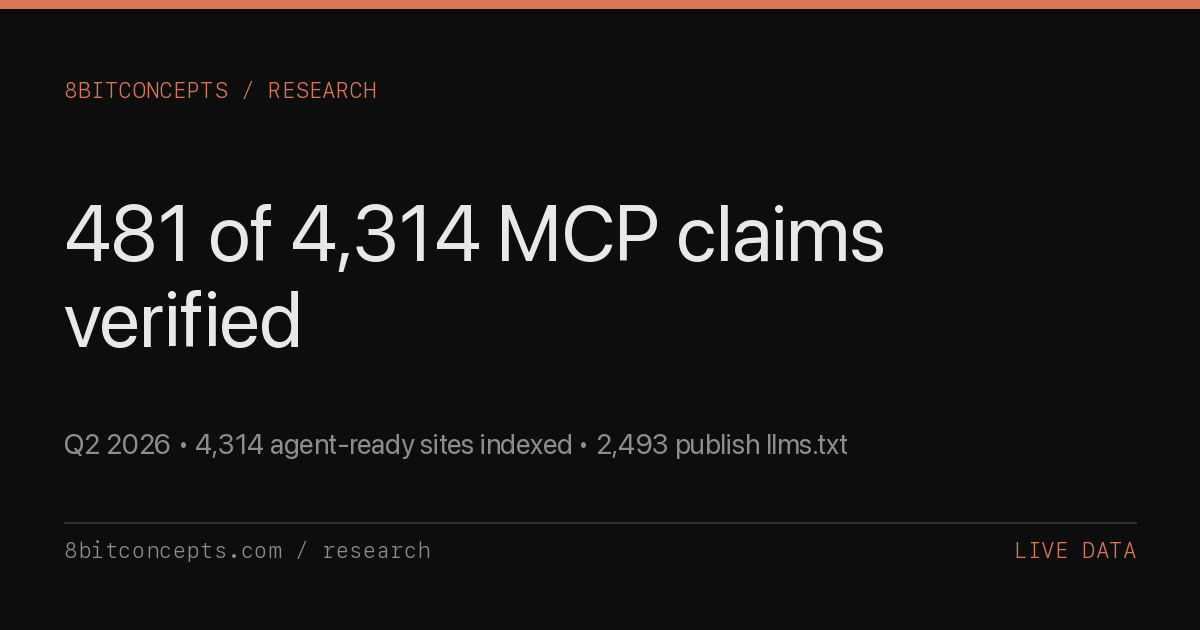
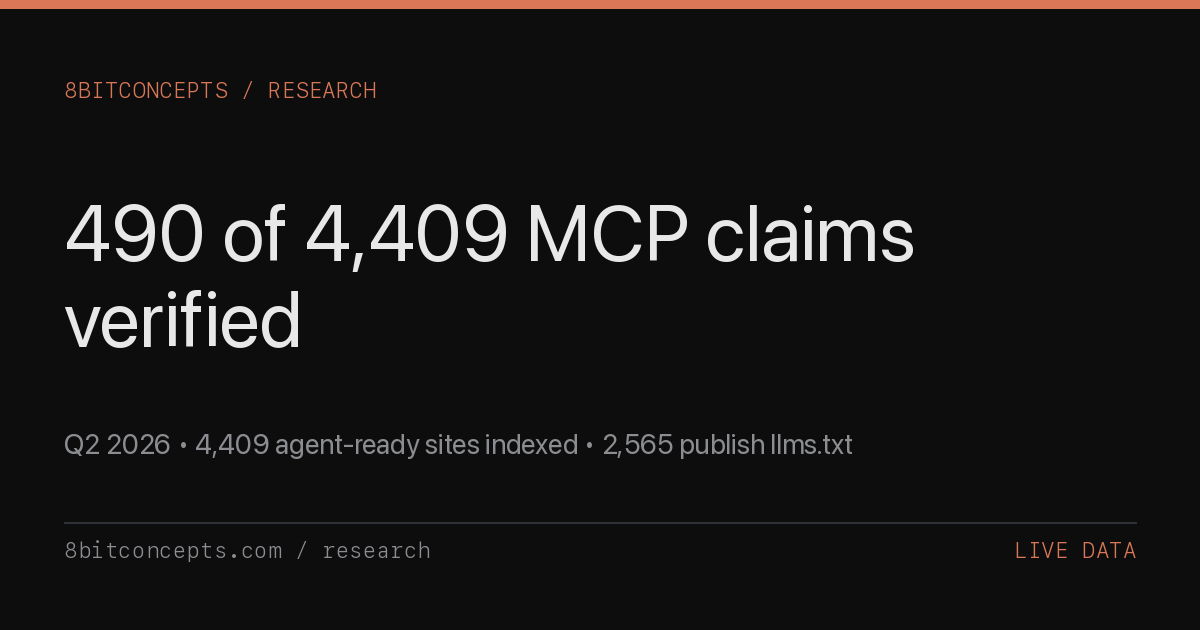
mcp-health: auto-regenerate 2026-07-27

Changed region(s): [[0.0925, 0.3016, 0.7708, 0.4222], [0.185, 0.6635, 0.7092, 0.7238]]

diff --git a/research/q2-2026-mcp-ecosystem-health.html b/research/q2-2026-mcp-ecosystem-health.html
@@ -5,11 +5,11 @@
   <meta name="viewport" content="width=device-width, initial-scale=1.0" />
   <meta name="referrer" content="strict-origin-when-cross-origin" />
   <meta name="color-scheme" content="dark light" />
-  <meta name="last-updated" content="2026-07-20" />
+  <meta name="last-updated" content="2026-07-27" />
   <title>Q2 2026 MCP Ecosystem Health -- 8bitconcepts</title>
-  <meta name="description" content="Live MCP ecosystem health: 4,314 agent-ready sites indexed, 481 (11.1%) MCP-verified via JSON-RPC handshake. 2,493 publish llms.txt, 605 publish OpenAPI. Category breakdown, newly-indexed servers, gaps." />
+  <meta name="description" content="Live MCP ecosystem health: 4,409 agent-ready sites indexed, 490 (11.1%) MCP-verified via JSON-RPC handshake. 2,565 publish llms.txt, 612 publish OpenAPI. Category breakdown, newly-indexed servers, gaps." />
   <meta property="og:title" content="Q2 2026 MCP Ecosystem Health -- 8bitconcepts" />
-  <meta property="og:description" content="481 of 4,314 indexed agent-ready sites (11.1%) pass a live JSON-RPC handshake. Most MCP-positive candidates do not verify as working endpoints. Category breakdown + newly-verified servers from NothingHumanSearch." />
+  <meta property="og:description" content="490 of 4,409 indexed agent-ready sites (11.1%) pass a live JSON-RPC handshake. Most MCP-positive candidates do not verify as working endpoints. Category breakdown + newly-verified servers from NothingHumanSearch." />
   <meta property="og:type" content="article" />
   <meta property="og:url" content="https://8bitconcepts.com/research/q2-2026-mcp-ecosystem-health.html" />
   <meta property="og:image" content="https://8bitconcepts.com/research/og/q2-2026-mcp-ecosystem-health.png" />
@@ -17,7 +17,7 @@
   <meta property="og:image:height" content="630" />
   <meta name="twitter:card" content="summary_large_image" />
   <meta name="twitter:title" content="Q2 2026 MCP Ecosystem Health" />
-  <meta name="twitter:description" content="MCP reality check: 481/4,314 sites survive a real JSON-RPC handshake. Live data from nothumansearch.ai, 2026-07-20." />
+  <meta name="twitter:description" content="MCP reality check: 490/4,409 sites survive a real JSON-RPC handshake. Live data from nothumansearch.ai, 2026-07-27." />
   <meta name="twitter:image" content="https://8bitconcepts.com/research/og/q2-2026-mcp-ecosystem-health.png" />
   <link rel="canonical" href="https://8bitconcepts.com/research/q2-2026-mcp-ecosystem-health.html" />
   <link rel="preconnect" href="https://fonts.googleapis.com" />
@@ -434,10 +434,10 @@
     "@context": "https://schema.org",
     "@type": "Article",
     "headline": "Q2 2026 MCP Ecosystem Health",
-    "description": "Live MCP ecosystem audit from NothingHumanSearch: 4,314 agent-ready sites indexed, only 481 (11.1%) MCP-verified via live JSON-RPC handshake. Category breakdown, top MCP servers, newly-indexed this week, and gaps in regulated verticals.",
+    "description": "Live MCP ecosystem audit from NothingHumanSearch: 4,409 agent-ready sites indexed, only 490 (11.1%) MCP-verified via live JSON-RPC handshake. Category breakdown, top MCP servers, newly-indexed this week, and gaps in regulated verticals.",
     "url": "https://8bitconcepts.com/research/q2-2026-mcp-ecosystem-health.html",
     "datePublished": "2026-04-17",
-    "dateModified": "2026-07-20",
+    "dateModified": "2026-07-27",
     "author": {"@type": "Organization", "name": "8bitconcepts", "url": "https://8bitconcepts.com"},
     "publisher": {"@type": "Organization", "name": "8bitconcepts", "url": "https://8bitconcepts.com"},
     "image": "https://8bitconcepts.com/research/og/q2-2026-mcp-ecosystem-health.png",
@@ -477,10 +477,10 @@
 
     <h1>Q2 2026 MCP Ecosystem Health</h1>
 
-    <p class="subtitle">As of 2026-07-20, 4,314 agent-ready sites are indexed on NothingHumanSearch, but only 481 (11.1%) survive a real JSON-RPC handshake to their /mcp endpoint. The rest did not verify as working MCP endpoints in this crawl. Live data pulled from <a href="https://nothumansearch.ai/digest.json">nothumansearch.ai/digest.json</a>.</p>
+    <p class="subtitle">As of 2026-07-27, 4,409 agent-ready sites are indexed on NothingHumanSearch, but only 490 (11.1%) survive a real JSON-RPC handshake to their /mcp endpoint. The rest did not verify as working MCP endpoints in this crawl. Live data pulled from <a href="https://nothumansearch.ai/digest.json">nothumansearch.ai/digest.json</a>.</p>
 
     <div class="meta">
-      <span class="meta-date">2026-07-20</span>
+      <span class="meta-date">2026-07-27</span>
       <span class="meta-tag">Live Data</span>
       <span class="meta-read">~850 words</span>
     </div>
@@ -489,20 +489,20 @@
 
       <h2>Executive summary</h2>
 
-      <p>NothingHumanSearch has been crawling the web for agent-readiness signals since launch, and the numbers tell a consistent story about the gap between claiming MCP support and shipping it. As of 2026-07-20 the index holds 4,314 sites with at least one agent-discovery signal (llms.txt, ai-plugin.json, OpenAPI, or an MCP manifest). Of those, 481 &mdash; 11.1% &mdash; pass a live JSON-RPC probe against their declared /mcp endpoint. The remaining 3,833 sites (88.9%) did not verify as working MCP endpoints in this crawl. That is not evidence of intent. It means the crawler found an MCP-positive or agent-discovery signal, then the live probe could not complete the <code>initialize</code> round-trip.</p>
+      <p>NothingHumanSearch has been crawling the web for agent-readiness signals since launch, and the numbers tell a consistent story about the gap between claiming MCP support and shipping it. As of 2026-07-27 the index holds 4,409 sites with at least one agent-discovery signal (llms.txt, ai-plugin.json, OpenAPI, or an MCP manifest). Of those, 490 &mdash; 11.1% &mdash; pass a live JSON-RPC probe against their declared /mcp endpoint. The remaining 3,919 sites (88.9%) did not verify as working MCP endpoints in this crawl. That is not evidence of intent. It means the crawler found an MCP-positive or agent-discovery signal, then the live probe could not complete the <code>initialize</code> round-trip.</p>
 
       <div class="stat-row">
         <div class="stat-box">
-          <div class="stat-num">4,314</div>
-          <div class="stat-label">agent-ready sites indexed on NothingHumanSearch (2026-07-20)</div>
+          <div class="stat-num">4,409</div>
+          <div class="stat-label">agent-ready sites indexed on NothingHumanSearch (2026-07-27)</div>
         </div>
         <div class="stat-box">
-          <div class="stat-num">481</div>
+          <div class="stat-num">490</div>
           <div class="stat-label">pass a live JSON-RPC MCP handshake &mdash; 11.1% of the index</div>
         </div>
         <div class="stat-box">
-          <div class="stat-num">2,493</div>
-          <div class="stat-label">publish <code>llms.txt</code> &mdash; 57.8% of the index</div>
+          <div class="stat-num">2,565</div>
+          <div class="stat-label">publish <code>llms.txt</code> &mdash; 58.2% of the index</div>
         </div>
       </div>
 
@@ -510,7 +510,7 @@
 
       <p>Static scanners &mdash; the ones that produce most of the MCP directory listings you see today &mdash; treat a string match for <code>mcp</code> in <code>llms.txt</code> or a link to <code>/.well-known/mcp.json</code> as a positive signal. That's how you end up with directories claiming 10,000+ MCP servers when the actual live count is smaller by an order of magnitude. A real check has to open a connection, send <code>{"method": "initialize"}</code>, wait for a protocol handshake, and confirm the server responds with a valid <code>result</code> block citing a <code>protocolVersion</code>. Anything short of that is a citation, not an implementation.</p>
 
-      <p>NHS's <code>verify_mcp</code> tool (published as part of the NHS MCP server at <a href="https://nothumansearch.ai/mcp">nothumansearch.ai/mcp</a>) does exactly this live-probe for any URL you hand it. When we recrawled the full index in April 2026 with the probe turned on, the verified-MCP count stayed stable around 481 even as the total indexed population kept climbing. The gap between MCP-positive discovery surfaces and endpoints that complete a live handshake is widening, not narrowing &mdash; which is the opposite of what the marketing cycle would have you believe.</p>
+      <p>NHS's <code>verify_mcp</code> tool (published as part of the NHS MCP server at <a href="https://nothumansearch.ai/mcp">nothumansearch.ai/mcp</a>) does exactly this live-probe for any URL you hand it. When we recrawled the full index in April 2026 with the probe turned on, the verified-MCP count stayed stable around 490 even as the total indexed population kept climbing. The gap between MCP-positive discovery surfaces and endpoints that complete a live handshake is widening, not narrowing &mdash; which is the opposite of what the marketing cycle would have you believe.</p>
 
       <p>This matters for anyone building an agent. If you rely on a static MCP directory to decide which tools your agent should discover at runtime, you will waste connections and context tokens on dead endpoints. The 90%+ unverified cohort is not proof of bad faith &mdash; it can include stale docs, misconfigured reverse proxies, auth walls, wrong endpoint paths, scanner false positives, and manifests that reference endpoints the author has not wired up. But for an autonomous agent, the failure mode is the same: a call that eats latency, fails, and doesn't advance the task.</p>
 
@@ -528,7 +528,6 @@
           </tr>
         </thead>
         <tbody>
-          <tr><td><a href="https://nothumansearch.ai/site/clicksprotocol.xyz">clicksprotocol.xyz</a></td><td>Clicks Protocol</td><td class="num">100</td><td>llms.txt, ai-plugin.json, OpenAPI, structured API, MCP handshake, AI-friendly robots.txt, Schema.org</td></tr>
           <tr><td><a href="https://nothumansearch.ai/site/rendoc.dev">rendoc.dev</a></td><td>rendoc</td><td class="num">100</td><td>llms.txt, ai-plugin.json, OpenAPI, structured API, MCP handshake, AI-friendly robots.txt, Schema.org</td></tr>
           <tr><td><a href="https://nothumansearch.ai/site/sourcelibrary.org">sourcelibrary.org</a></td><td>Source Library</td><td class="num">100</td><td>llms.txt, ai-plugin.json, OpenAPI, structured API, MCP handshake, AI-friendly robots.txt, Schema.org</td></tr>
           <tr><td><a href="https://nothumansearch.ai/site/simplepdf.com">simplepdf.com</a></td><td>Free PDF Editor Online - No Sign Up, No Watermarks</td><td class="num">100</td><td>llms.txt, ai-plugin.json, OpenAPI, structured API, MCP handshake, AI-friendly robots.txt, Schema.org</td></tr>
@@ -536,6 +535,7 @@
           <tr><td><a href="https://nothumansearch.ai/site/api.contrastcyber.com">api.contrastcyber.com</a></td><td>ContrastAPI</td><td class="num">100</td><td>llms.txt, ai-plugin.json, OpenAPI, structured API, MCP handshake, AI-friendly robots.txt, Schema.org</td></tr>
           <tr><td><a href="https://nothumansearch.ai/site/prereason.com">prereason.com</a></td><td>PreReason - Market Context API</td><td class="num">100</td><td>llms.txt, ai-plugin.json, OpenAPI, structured API, MCP handshake, AI-friendly robots.txt, Schema.org</td></tr>
           <tr><td><a href="https://nothumansearch.ai/site/workprotocol.ai">workprotocol.ai</a></td><td>WorkProtocol</td><td class="num">100</td><td>llms.txt, ai-plugin.json, OpenAPI, structured API, MCP handshake, AI-friendly robots.txt, Schema.org</td></tr>
+          <tr><td><a href="https://nothumansearch.ai/site/mycloudclaw.com">mycloudclaw.com</a></td><td>CloudClaw</td><td class="num">100</td><td>llms.txt, ai-plugin.json, OpenAPI, structured API, MCP handshake, AI-friendly robots.txt, Schema.org</td></tr>
         </tbody>
       </table>
 
@@ -559,7 +559,7 @@
 
       <h2>Top categories by indexed count</h2>
 
-      <p>Across verified MCP servers and the broader agent-ready population, the category distribution is heavily concentrated. <strong>Developer tools</strong> alone accounts for 1,320 sites (30.6% of the index). AI-native tools follow closely &mdash; unsurprising given that MCP emerged from the AI-tools ecosystem. After that, category density drops off a cliff.</p>
+      <p>Across verified MCP servers and the broader agent-ready population, the category distribution is heavily concentrated. <strong>Developer tools</strong> alone accounts for 1,330 sites (30.2% of the index). AI-native tools follow closely &mdash; unsurprising given that MCP emerged from the AI-tools ecosystem. After that, category density drops off a cliff.</p>
 
       <table class="data-table">
         <thead>
@@ -570,16 +570,16 @@
           </tr>
         </thead>
         <tbody>
-          <tr><td>Developer tools</td><td class="num">1,320</td><td class="num">30.6%</td></tr>
-          <tr><td>AI-native tools</td><td class="num">924</td><td class="num">21.4%</td></tr>
-          <tr><td>Data / analytics</td><td class="num">389</td><td class="num">9.0%</td></tr>
-          <tr><td>Finance / fintech</td><td class="num">199</td><td class="num">4.6%</td></tr>
-          <tr><td>Productivity</td><td class="num">161</td><td class="num">3.7%</td></tr>
-          <tr><td>E-commerce</td><td class="num">156</td><td class="num">3.6%</td></tr>
-          <tr><td>Communication</td><td class="num">122</td><td class="num">2.8%</td></tr>
-          <tr><td>Security</td><td class="num">112</td><td class="num">2.6%</td></tr>
-          <tr><td>Health / medical</td><td class="num">60</td><td class="num">1.4%</td></tr>
-          <tr><td>Jobs / hiring</td><td class="num">26</td><td class="num">0.6%</td></tr>
+          <tr><td>Developer tools</td><td class="num">1,330</td><td class="num">30.2%</td></tr>
+          <tr><td>AI-native tools</td><td class="num">938</td><td class="num">21.3%</td></tr>
+          <tr><td>Data / analytics</td><td class="num">393</td><td class="num">8.9%</td></tr>
+          <tr><td>Finance / fintech</td><td class="num">199</td><td class="num">4.5%</td></tr>
+          <tr><td>Productivity</td><td class="num">163</td><td class="num">3.7%</td></tr>
+          <tr><td>E-commerce</td><td class="num">160</td><td class="num">3.6%</td></tr>
+          <tr><td>Communication</td><td class="num">124</td><td class="num">2.8%</td></tr>
+          <tr><td>Security</td><td class="num">119</td><td class="num">2.7%</td></tr>
+          <tr><td>Health / medical</td><td class="num">54</td><td class="num">1.2%</td></tr>
+          <tr><td>Jobs / hiring</td><td class="num">29</td><td class="num">0.7%</td></tr>
         </tbody>
       </table>
 
@@ -597,13 +597,15 @@
           </tr>
         </thead>
         <tbody>
-          <tr><td><a href="https://nothumansearch.ai/site/twexapi.io">twexapi.io</a></td><td>TwexAPI - Affordable Twitter (X) API Replacement</td><td>Security</td><td class="num">100</td></tr>
+          <tr><td><a href="https://nothumansearch.ai/site/ai-akari.ai">ai-akari.ai</a></td><td>AIﾉアカリ☆</td><td>AI-native tools</td><td class="num">100</td></tr>
+          <tr><td><a href="https://nothumansearch.ai/site/bbwbelles.com">bbwbelles.com</a></td><td>Plus Size Formal Dresses 22–40</td><td>Uncategorized</td><td class="num">100</td></tr>
+          <tr><td><a href="https://nothumansearch.ai/site/bargo.ai">bargo.ai</a></td><td>Bargo</td><td>Developer tools</td><td class="num">55</td></tr>
         </tbody>
       </table>
 
       <h2>Gaps in the ecosystem</h2>
 
-      <p>The gap that matters for builders: regulated high-value verticals are still thinly represented. Finance has 199 sites, health has 60, and education has 20. These are the same verticals where agents would deliver the most leverage per call &mdash; underwriting assistance, clinical documentation, degree-audit lookups &mdash; and they are the verticals where the MCP ecosystem is the least mature. Jobs (26) and news (8) round out the long tail. If you are deciding where to ship an MCP server and you want reach-per-server rather than defensibility through a crowd, the signal is clear: any vertical below 112 indexed sites is green field.</p>
+      <p>The gap that matters for builders: regulated high-value verticals are still thinly represented. Finance has 199 sites, health has 54, and education has 21. These are the same verticals where agents would deliver the most leverage per call &mdash; underwriting assistance, clinical documentation, degree-audit lookups &mdash; and they are the verticals where the MCP ecosystem is the least mature. Jobs (29) and news (9) round out the long tail. If you are deciding where to ship an MCP server and you want reach-per-server rather than defensibility through a crowd, the signal is clear: any vertical below 119 indexed sites is green field.</p>
 
       <div class="callout">
         <p>The pattern is consistent across every index we maintain: the teams that ship real MCP endpoints are a small fraction of the teams that claim MCP support. For builders, that gap is an opportunity &mdash; the verticals that are thin today will not stay thin for long.</p>
@@ -613,7 +615,7 @@
 
       <p>NHS crawls submitted URLs and auto-discovered candidates from public sources (awesome-mcp-servers, PulseMCP, llmstxt.site, and a handful of curated feeds), then scores each site against seven weighted signals: <code>llms.txt</code> present and parseable; <code>ai-plugin.json</code> at <code>/.well-known/</code>; an OpenAPI or AsyncAPI spec at a discoverable path; an MCP manifest; a live JSON-RPC MCP handshake; documented rate-limit and auth headers; and an accessible structured API response. Sites are re-crawled weekly. Scores range 0-100; any score above 75 corresponds to a site that an autonomous agent can realistically integrate without human help. The full probe methodology is open-source at <a href="https://nothumansearch.ai/methodology">nothumansearch.ai/methodology</a>.</p>
 
-      <p>Weekly submission volume is running at 20 candidates for the week starting 2026-07-13, most from autonomous discovery agents rather than human submissions.</p>
+      <p>Weekly submission volume is running at 37 candidates for the week starting 2026-07-20, most from autonomous discovery agents rather than human submissions.</p>
 
       <p><strong>Download raw data:</strong> The MCP ecosystem health dataset is mirrored as a public gist &mdash; <a href="https://gist.githubusercontent.com/unitedideas/c93bd6d9984729070c59b2ea6c6b301b/raw/mcp-ecosystem-health.csv">CSV</a> &middot; <a href="https://gist.githubusercontent.com/unitedideas/c93bd6d9984729070c59b2ea6c6b301b/raw/mcp-ecosystem-health.md">Markdown</a> &middot; <a href="https://gist.github.com/unitedideas/c93bd6d9984729070c59b2ea6c6b301b">view on GitHub</a>. Auto-updated every weekly regeneration, canonical raw URLs are stable across revisions.</p>
 
@@ -667,7 +669,7 @@
     <div class="footnotes">
       <h4>Sources</h4>
       <ol>
-        <li>NothingHumanSearch &mdash; <a href="https://nothumansearch.ai/digest.json">/digest.json</a>, pulled 2026-07-20T15:15:00Z. Public unauthenticated endpoint. Backing index: 4,314 agent-ready sites / 481 MCP-verified via JSON-RPC handshake.</li>
+        <li>NothingHumanSearch &mdash; <a href="https://nothumansearch.ai/digest.json">/digest.json</a>, pulled 2026-07-27T15:15:01Z. Public unauthenticated endpoint. Backing index: 4,409 agent-ready sites / 490 MCP-verified via JSON-RPC handshake.</li>
         <li>NothingHumanSearch &mdash; <a href="https://nothumansearch.ai/mcp">/mcp</a>, live MCP server exposing <code>verify_mcp</code>, <code>search</code>, <code>get_site</code>, <code>list_categories</code>, <code>get_top_sites</code>, and four more tools over JSON-RPC 2.0.</li>
         <li>NothingHumanSearch &mdash; <a href="https://nothumansearch.ai/methodology">/methodology</a>, open-source scoring rubric with 7 weighted signals.</li>
         <li>Verification means a TCP connection + HTTP POST to the declared <code>/mcp</code> endpoint with a JSON-RPC 2.0 <code>initialize</code> request, followed by a valid <code>result</code> response containing a <code>protocolVersion</code>. Sites that host a manifest but fail the handshake are counted in the index total but not in the MCP-verified total.</li>

diff --git a/marketing/mcp-milestone-posts.md b/marketing/mcp-milestone-posts.md
@@ -1,23 +1,23 @@
 # MCP Verification Milestone Posts
 
-Generated from live NothingHumanSearch digest on 2026-04-28.
+Generated from live NothingHumanSearch digest on 2026-07-27.
 
-Current verified share: 417 / 7,118 (5.9%).
+Current verified share: 490 / 4,409 (11.1%).
 Next milestone: 20%.
 
 Use these when the live digest crosses 20%, 50%, 75%, and 100% verified MCP handshakes. Do not post until the status line says READY.
 
 ### 20% milestone
 
-Status: waiting: 1,007 more verified MCP servers needed
-Trigger: 1,424 verified MCP servers out of 7,118 current indexed claims.
-Current gap: 1,007.
+Status: waiting: 392 more verified MCP servers needed
+Trigger: 882 verified MCP servers out of 4,409 current indexed claims.
+Current gap: 392.
 
 Long post:
 
 20% of indexed MCP claims now pass a live JSON-RPC handshake.
 
-NothingHumanSearch is now at 417 verified MCP servers out of 7,118 indexed claims (5.9%).
+NothingHumanSearch is now at 490 verified MCP servers out of 4,409 indexed claims (11.1%).
 
 Verification here means a real HTTP JSON-RPC probe, not a string match:
 
@@ -25,30 +25,30 @@ Verification here means a real HTTP JSON-RPC probe, not a string match:
 2. Send an initialize request.
 3. Confirm a valid protocolVersion response.
 
-The same crawl sees 5,087 sites publishing llms.txt and 511 publishing OpenAPI, which is the shape of the current agentic web: lots of context files, fewer programmatic surfaces, and fewer still that complete the MCP handshake.
+The same crawl sees 2,565 sites publishing llms.txt and 612 publishing OpenAPI, which is the shape of the current agentic web: lots of context files, fewer programmatic surfaces, and fewer still that complete the MCP handshake.
 
 Live dataset: https://8bitconcepts.com/research/q2-2026-mcp-ecosystem-health.html
 Raw data: https://gist.github.com/unitedideas/c93bd6d9984729070c59b2ea6c6b301b
 
 Short post:
 
-20% milestone: 417 of 7,118 indexed MCP claims now pass a live JSON-RPC handshake.
+20% milestone: 490 of 4,409 indexed MCP claims now pass a live JSON-RPC handshake.
 
-llms.txt: 5,087
-OpenAPI: 511
+llms.txt: 2,565
+OpenAPI: 612
 Methodology + raw data: https://8bitconcepts.com/research/q2-2026-mcp-ecosystem-health.html
 
 ### 50% milestone
 
-Status: waiting: 3,142 more verified MCP servers needed
-Trigger: 3,559 verified MCP servers out of 7,118 current indexed claims.
-Current gap: 3,142.
+Status: waiting: 1,715 more verified MCP servers needed
+Trigger: 2,205 verified MCP servers out of 4,409 current indexed claims.
+Current gap: 1,715.
 
 Long post:
 
 50% of indexed MCP claims now pass a live JSON-RPC handshake.
 
-NothingHumanSearch is now at 417 verified MCP servers out of 7,118 indexed claims (5.9%).
+NothingHumanSearch is now at 490 verified MCP servers out of 4,409 indexed claims (11.1%).
 
 Verification here means a real HTTP JSON-RPC probe, not a string match:
 
@@ -56,30 +56,30 @@ Verification here means a real HTTP JSON-RPC probe, not a string match:
 2. Send an initialize request.
 3. Confirm a valid protocolVersion response.
 
-The same crawl sees 5,087 sites publishing llms.txt and 511 publishing OpenAPI, which is the shape of the current agentic web: lots of context files, fewer programmatic surfaces, and fewer still that complete the MCP handshake.
+The same crawl sees 2,565 sites publishing llms.txt and 612 publishing OpenAPI, which is the shape of the current agentic web: lots of context files, fewer programmatic surfaces, and fewer still that complete the MCP handshake.
 
 Live dataset: https://8bitconcepts.com/research/q2-2026-mcp-ecosystem-health.html
 Raw data: https://gist.github.com/unitedideas/c93bd6d9984729070c59b2ea6c6b301b
 
 Short post:
 
-50% milestone: 417 of 7,118 indexed MCP claims now pass a live JSON-RPC handshake.
+50% milestone: 490 of 4,409 indexed MCP claims now pass a live JSON-RPC handshake.
 
-llms.txt: 5,087
-OpenAPI: 511
+llms.txt: 2,565
+OpenAPI: 612
 Methodology + raw data: https://8bitconcepts.com/research/q2-2026-mcp-ecosystem-health.html
 
 ### 75% milestone
 
-Status: waiting: 4,922 more verified MCP servers needed
-Trigger: 5,339 verified MCP servers out of 7,118 current indexed claims.
-Current gap: 4,922.
+Status: waiting: 2,817 more verified MCP servers needed
+Trigger: 3,307 verified MCP servers out of 4,409 current indexed claims.
+Current gap: 2,817.
 
 Long post:
 
 75% of indexed MCP claims now pass a live JSON-RPC handshake.
 
-NothingHumanSearch is now at 417 verified MCP servers out of 7,118 indexed claims (5.9%).
+NothingHumanSearch is now at 490 verified MCP servers out of 4,409 indexed claims (11.1%).
 
 Verification here means a real HTTP JSON-RPC probe, not a string match:
 
@@ -87,30 +87,30 @@ Verification here means a real HTTP JSON-RPC probe, not a string match:
 2. Send an initialize request.
 3. Confirm a valid protocolVersion response.
 
-The same crawl sees 5,087 sites publishing llms.txt and 511 publishing OpenAPI, which is the shape of the current agentic web: lots of context files, fewer programmatic surfaces, and fewer still that complete the MCP handshake.
+The same crawl sees 2,565 sites publishing llms.txt and 612 publishing OpenAPI, which is the shape of the current agentic web: lots of context files, fewer programmatic surfaces, and fewer still that complete the MCP handshake.
 
 Live dataset: https://8bitconcepts.com/research/q2-2026-mcp-ecosystem-health.html
 Raw data: https://gist.github.com/unitedideas/c93bd6d9984729070c59b2ea6c6b301b
 
 Short post:
 
-75% milestone: 417 of 7,118 indexed MCP claims now pass a live JSON-RPC handshake.
+75% milestone: 490 of 4,409 indexed MCP claims now pass a live JSON-RPC handshake.
 
-llms.txt: 5,087
-OpenAPI: 511
+llms.txt: 2,565
+OpenAPI: 612
 Methodology + raw data: https://8bitconcepts.com/research/q2-2026-mcp-ecosystem-health.html
 
 ### 100% milestone
 
-Status: waiting: 6,701 more verified MCP servers needed
-Trigger: 7,118 verified MCP servers out of 7,118 current indexed claims.
-Current gap: 6,701.
+Status: waiting: 3,919 more verified MCP servers needed
+Trigger: 4,409 verified MCP servers out of 4,409 current indexed claims.
+Current gap: 3,919.
 
 Long post:
 
 100% of indexed MCP claims now pass a live JSON-RPC handshake.
 
-NothingHumanSearch is now at 417 verified MCP servers out of 7,118 indexed claims (5.9%).
+NothingHumanSearch is now at 490 verified MCP servers out of 4,409 indexed claims (11.1%).
 
 Verification here means a real HTTP JSON-RPC probe, not a string match:
 
@@ -118,16 +118,16 @@ Verification here means a real HTTP JSON-RPC probe, not a string match:
 2. Send an initialize request.
 3. Confirm a valid protocolVersion response.
 
-The same crawl sees 5,087 sites publishing llms.txt and 511 publishing OpenAPI, which is the shape of the current agentic web: lots of context files, fewer programmatic surfaces, and fewer still that complete the MCP handshake.
+The same crawl sees 2,565 sites publishing llms.txt and 612 publishing OpenAPI, which is the shape of the current agentic web: lots of context files, fewer programmatic surfaces, and fewer still that complete the MCP handshake.
 
 Live dataset: https://8bitconcepts.com/research/q2-2026-mcp-ecosystem-health.html
 Raw data: https://gist.github.com/unitedideas/c93bd6d9984729070c59b2ea6c6b301b
 
 Short post:
 
-100% milestone: 417 of 7,118 indexed MCP claims now pass a live JSON-RPC handshake.
+100% milestone: 490 of 4,409 indexed MCP claims now pass a live JSON-RPC handshake.
 
-llms.txt: 5,087
-OpenAPI: 511
+llms.txt: 2,565
+OpenAPI: 612
 Methodology + raw data: https://8bitconcepts.com/research/q2-2026-mcp-ecosystem-health.html
 
